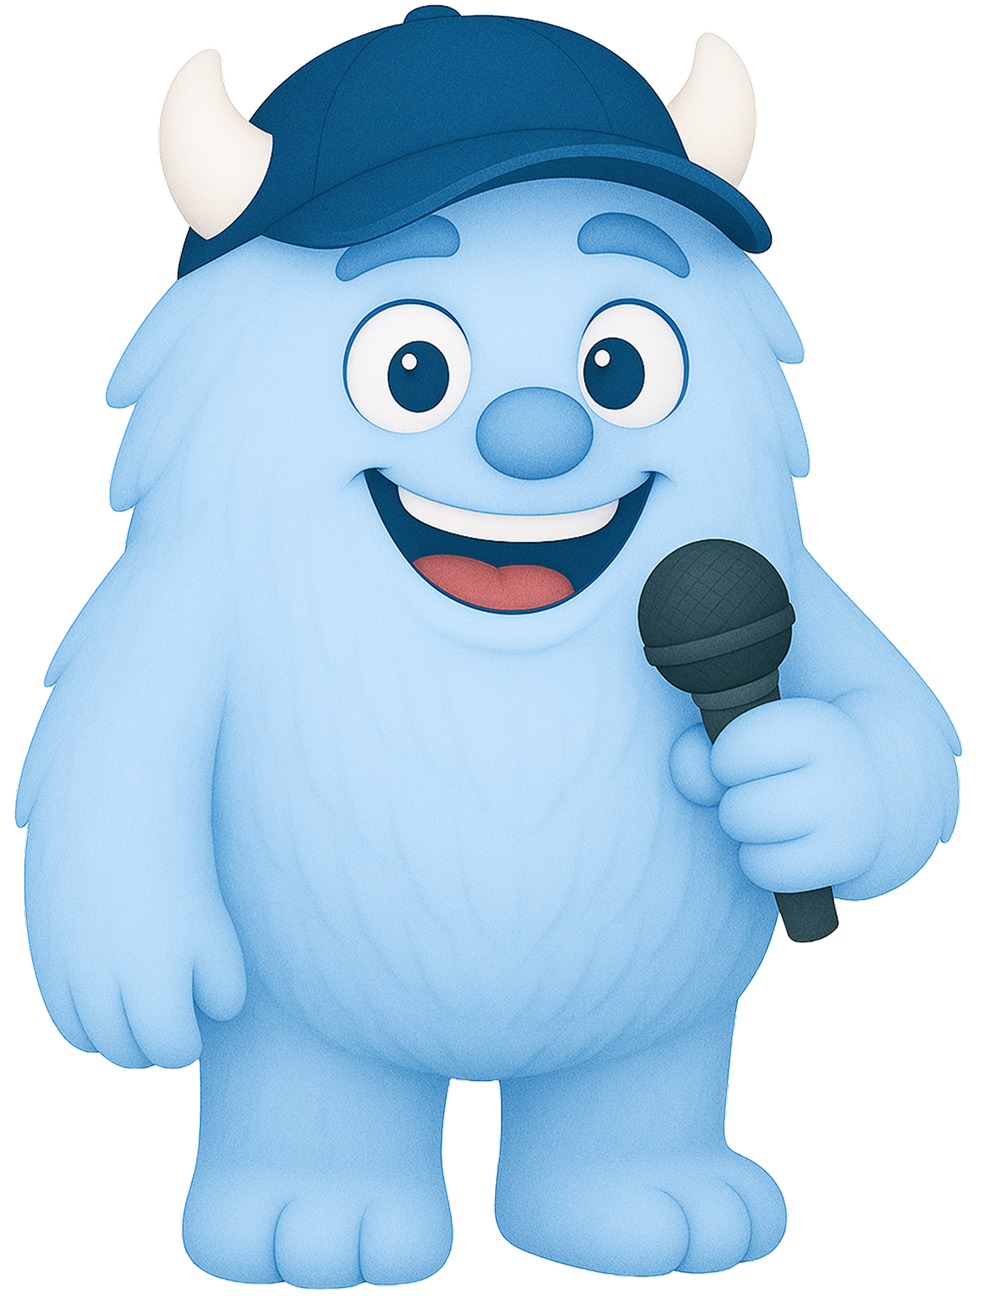
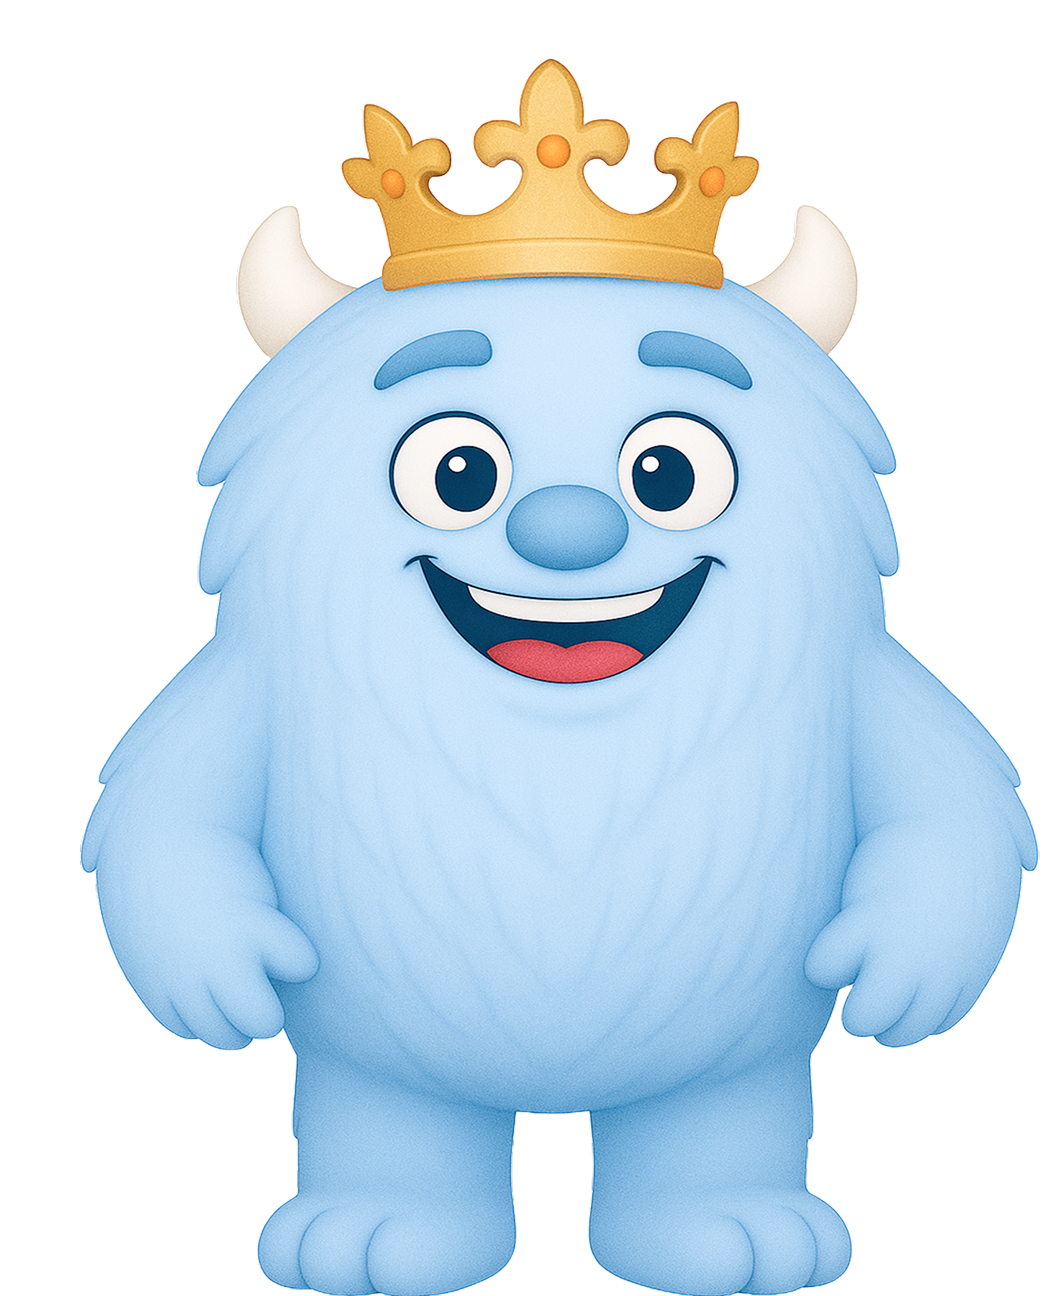
feat(mascot): Refactor supportive theme and update combinations

diff --git a/src/types/mascot.ts b/src/types/mascot.ts
@@ -1,16 +1,26 @@
 // src/types/mascot.ts
 
-// Placeholder MascotVariant type. Replace with your actual variants.
-export type MascotVariant = 
-  | 'waving' 
-  | 'glasses' 
-  | 'brushing' 
-  | 'welcoming' 
-  | 'glasses-1-pp' // Example existing
-  | 'default-pp'
-  | 'default-pose'
-  | 'wise-pp'
-  | 'wise-pose'
+// The comprehensive list of all available mascot image keys.
+export type MascotVariant =
+  // Welcoming & Waving
+  | 'nubo-welcoming-1'
+  | 'nubo-welcoming-2'
+  | 'nubo-welcoming-wave'
+  | 'nubo-welcoming-1-pp'
+  // Brushing
+  | 'nubo-daily-brush'
+  | 'nubo-daily-brush-2'
+  | 'nubo-brushing-1-pp'
+  // Cool
+  | 'nubo-cool-1'
+  | 'nubo-cool-2'
+  | 'nubo-cool-3'
+  | 'nubo-cool-4'
+  | 'nubo-cool-5'
+  | 'nubo-cool-1-pp'
+  | 'nubo-cool-2-pp'
+  | 'nubo-cool-3-pp'
+  // Wise
   | 'nubo-wise-1'
   | 'nubo-wise-2'
   | 'nubo-wise-3'
@@ -18,6 +28,7 @@ export type MascotVariant =
   | 'nubo-wise-1-pp'
   | 'nubo-wise-2-pp'
   | 'nubo-wise-3-pp'
+  // Playful
   | 'nubo-playful-1'
   | 'nubo-playful-2'
   | 'nubo-playful-3'
@@ -27,11 +38,30 @@ export type MascotVariant =
   | 'nubo-playful-2-pp'
   | 'nubo-playful-3-pp'
   | 'nubo-playful-4-pp'
+  // Supportive
+  | 'nubo-supportive-1'
+  | 'nubo-supportive-2'
+  | 'nubo-supportive-3'
+  | 'nubo-supportive-4'
+  | 'nubo-supportive-5'
+  | 'nubo-supportive-6'
+  | 'nubo-supportive-1-pp'
+  | 'nubo-supportive-2-pp'
+  | 'nubo-supportive-3-pp'
+  // Legacy/Unused (examples)
+  | 'waving'
+  | 'glasses'
+  | 'brushing'
+  | 'welcoming'
+  | 'glasses-1-pp'
+  | 'default-pp'
+  | 'default-pose'
+  | 'wise-pp'
+  | 'wise-pose'
   | 'cool-pp'
   | 'cool-pose'
   | 'friendly-pp'
   | 'friendly-pose';
-  // Add all your actual mascot animation/image key names here
 
 export interface MascotProfile {
   id: string; // e.g., 'wise', 'cool', 'friendly'
@@ -40,22 +70,36 @@ export interface MascotProfile {
   greetings: string[];                  // Array of possible texts for this profile
 }
 
-export type PpMascotVariant = 
+// All variants ending with '-pp', used for collapsed states and dynamic themes.
+export type PpMascotVariant =
+  | 'nubo-welcoming-1-pp'
+  | 'nubo-brushing-1-pp'
+  | 'nubo-cool-1-pp'
+  | 'nubo-cool-2-pp'
+  | 'nubo-cool-3-pp'
   | 'nubo-wise-1-pp'
   | 'nubo-wise-2-pp'
   | 'nubo-wise-3-pp'
-  | 'nubo-welcoming-1-pp'
-  | 'nubo-brushing-1-pp'
-  | 'nubo-cool-3-pp'
-  | 'nubo-cool-1-pp'
-  | 'nubo-cool-2-pp'
   | 'nubo-playful-1-pp'
   | 'nubo-playful-2-pp'
   | 'nubo-playful-3-pp'
-  | 'nubo-playful-4-pp';
+  | 'nubo-playful-4-pp'
+  | 'nubo-supportive-1-pp'
+  | 'nubo-supportive-2-pp'
+  | 'nubo-supportive-3-pp';
 
-// Define your Non-PP (Expanded/Other) Mascot Variants here
-export type NonPpMascotVariant = 
+// All variants NOT ending with '-pp', used for expanded states and dynamic themes.
+export type NonPpMascotVariant =
+  | 'nubo-welcoming-1'
+  | 'nubo-welcoming-2'
+  | 'nubo-welcoming-wave'
+  | 'nubo-daily-brush'
+  | 'nubo-daily-brush-2'
+  | 'nubo-cool-1'
+  | 'nubo-cool-2'
+  | 'nubo-cool-3'
+  | 'nubo-cool-4'
+  | 'nubo-cool-5'
   | 'nubo-wise-1'
   | 'nubo-wise-2'
   | 'nubo-wise-3'
@@ -65,7 +109,33 @@ export type NonPpMascotVariant =
   | 'nubo-playful-3'
   | 'nubo-playful-4'
   | 'nubo-playful-5'
-  | 'nubo-welcoming-1'
-  | 'nubo-welcoming-2'
-  | 'nubo-welcoming-wave'
-  | 'nubo-daily-brush' 
+  | 'nubo-supportive-1'
+  | 'nubo-supportive-2'
+  | 'nubo-supportive-3'
+  | 'nubo-supportive-4'
+  | 'nubo-supportive-5'
+  | 'nubo-supportive-6';
+
+export interface MascotPositioning {
+  translateX: number;
+  translateY: number;
+  scale: number;
+}
+
+// Configuration for a specific mascot appearance, combining a PP and a Pose.
+export interface MascotConfig {
+  id: string;
+  collapsedVariant: PpMascotVariant;
+  expandedVariant: NonPpMascotVariant;
+  greetingTextKey: string;
+  probability: number;
+}
+
+// Defines a theme for generating dynamic mascot configurations.
+export interface DynamicMascotTheme {
+  themeId: string;
+  profilePictureVariants: PpMascotVariant[];
+  poseVariants: NonPpMascotVariant[];
+  greetingTextKeys: string[];
+  selectionWeight: number;
+} 

diff --git a/components/ui/Mascot.tsx b/components/ui/Mascot.tsx
@@ -107,6 +107,26 @@ export default function Mascot({
       case 'nubo-playful-4-pp':
         return require('../../assets/mascot/nubo-playful-4-pp.png');
         
+      // --- Supportive Category ---
+      case 'nubo-supportive-1':
+        return require('../../assets/mascot/nubo-supportive-1.png');
+      case 'nubo-supportive-2':
+        return require('../../assets/mascot/nubo-supportive-2.png');
+      case 'nubo-supportive-3':
+        return require('../../assets/mascot/nubo-supportive-3.png');
+      case 'nubo-supportive-4':
+        return require('../../assets/mascot/nubo-supportive-4.png');
+      case 'nubo-supportive-5':
+        return require('../../assets/mascot/nubo-supportive-5.png');
+      case 'nubo-supportive-6':
+        return require('../../assets/mascot/nubo-supportive-6.png');
+      case 'nubo-supportive-1-pp':
+        return require('../../assets/mascot/nubo-supportive-1-pp.png');
+      case 'nubo-supportive-2-pp':
+        return require('../../assets/mascot/nubo-supportive-2-pp.png');
+      case 'nubo-supportive-3-pp':
+        return require('../../assets/mascot/nubo-supportive-3-pp.png');
+        
       // --- Daily Routine Category ---
       case 'nubo-daily-brush': // For nubo-brushing-1.png
         return require('../../assets/mascot/nubo-brushing-1.png');

diff --git a/constants/mascotGreetingKeys.ts b/constants/mascotGreetingKeys.ts
@@ -69,5 +69,28 @@ export const playfulGreetingKeys: string[] = [
   "mascotGreetings.playful.tinyMovesBigSmile"
 ];
 
+export const supportiveGreetingKeys: string[] = [
+  "mascotGreetings.supportive.youShowedUp",
+  "mascotGreetings.supportive.smallWinsBigSmiles",
+  "mascotGreetings.supportive.littleByLittle",
+  "mascotGreetings.supportive.freshStart",
+  "mascotGreetings.supportive.rightHereWithYou",
+  "mascotGreetings.supportive.progressNotPerfection",
+  "mascotGreetings.supportive.tinyHabitsMatter",
+  "mascotGreetings.supportive.yourSmileDeservesThis",
+  "mascotGreetings.supportive.brighterStep",
+  "mascotGreetings.supportive.gentleReminder",
+  "mascotGreetings.supportive.strongerEachDay",
+  "mascotGreetings.supportive.kindToYourself",
+  "mascotGreetings.supportive.thisMatters",
+  "mascotGreetings.supportive.quietProgress",
+  "mascotGreetings.supportive.consistentCare",
+  "mascotGreetings.supportive.keepShowingUp",
+  "mascotGreetings.supportive.showingUpStrong",
+  "mascotGreetings.supportive.streakOrNoStreak",
+  "mascotGreetings.supportive.gentleVictory",
+  "mascotGreetings.supportive.todayCounts"
+];
+
 // You can add other themed greeting key arrays here later, e.g.:
 // export const friendlyGreetingKeys: string[] = [ ... ]; 

diff --git a/constants/mascotThemes.ts b/constants/mascotThemes.ts
@@ -1,5 +1,5 @@
 import type { DynamicMascotTheme, MascotPositioning, PpMascotVariant, NonPpMascotVariant } from '../types/mascot';
-import { coolGreetingKeys, wiseGreetingKeys, playfulGreetingKeys } from './mascotGreetingKeys';
+import { coolGreetingKeys, wiseGreetingKeys, playfulGreetingKeys, supportiveGreetingKeys } from './mascotGreetingKeys';
 // Potentially import getMascotPositioning if needed for more dynamic positioning within a theme, though not used in this example.
 // import { getMascotPositioning } from '../utils/mascotUtils';
 
@@ -53,6 +53,24 @@ export const dynamicMascotThemes: DynamicMascotTheme[] = [
     ],
     greetingTextKeys: playfulGreetingKeys,
     selectionWeight: 0.5,
+  },
+  {
+    themeId: 'supportive',
+    profilePictureVariants: [
+      'nubo-supportive-1-pp',
+      'nubo-supportive-2-pp',
+      'nubo-supportive-3-pp',
+    ],
+    poseVariants: [
+      'nubo-supportive-1',
+      'nubo-supportive-2',
+      'nubo-supportive-3',
+      'nubo-supportive-4',
+      'nubo-supportive-5',
+      'nubo-supportive-6',
+    ],
+    greetingTextKeys: supportiveGreetingKeys,
+    selectionWeight: 0.4,
   },
   // Example of another theme (you can add more later)
   // {
